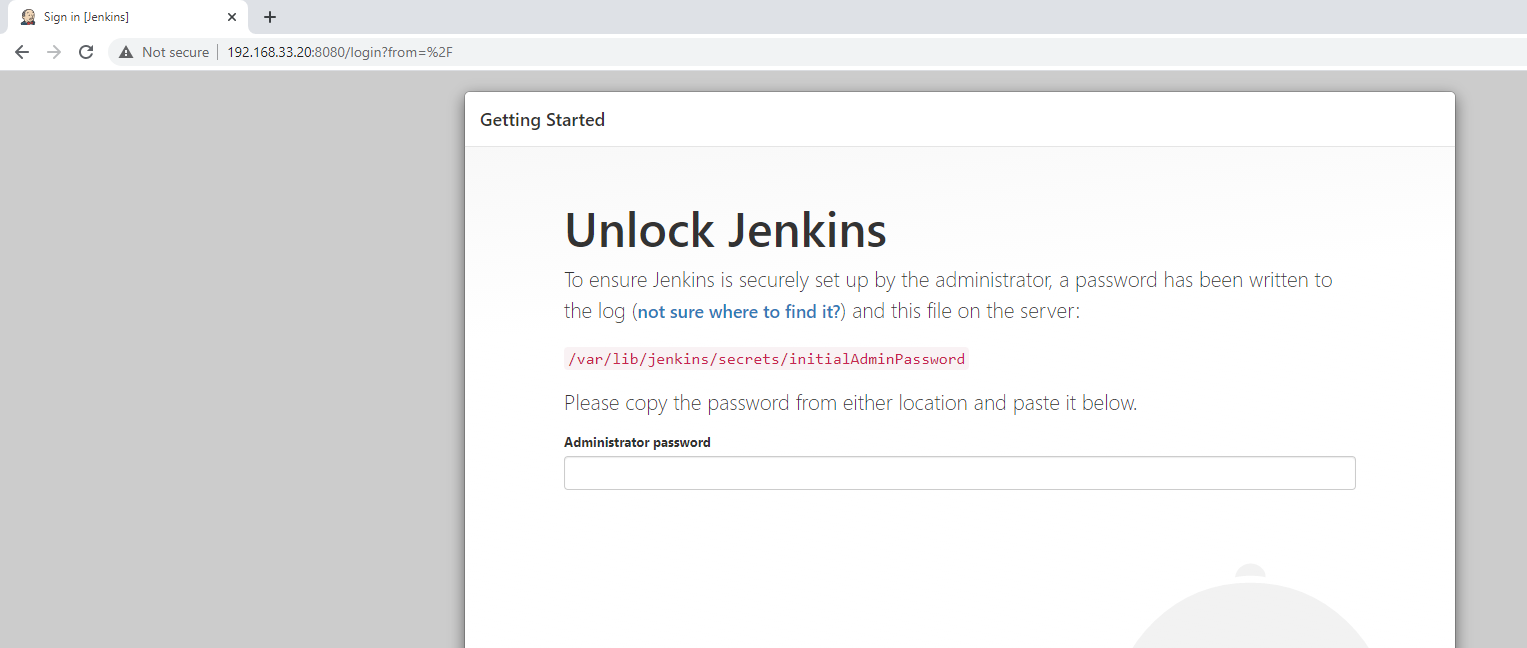
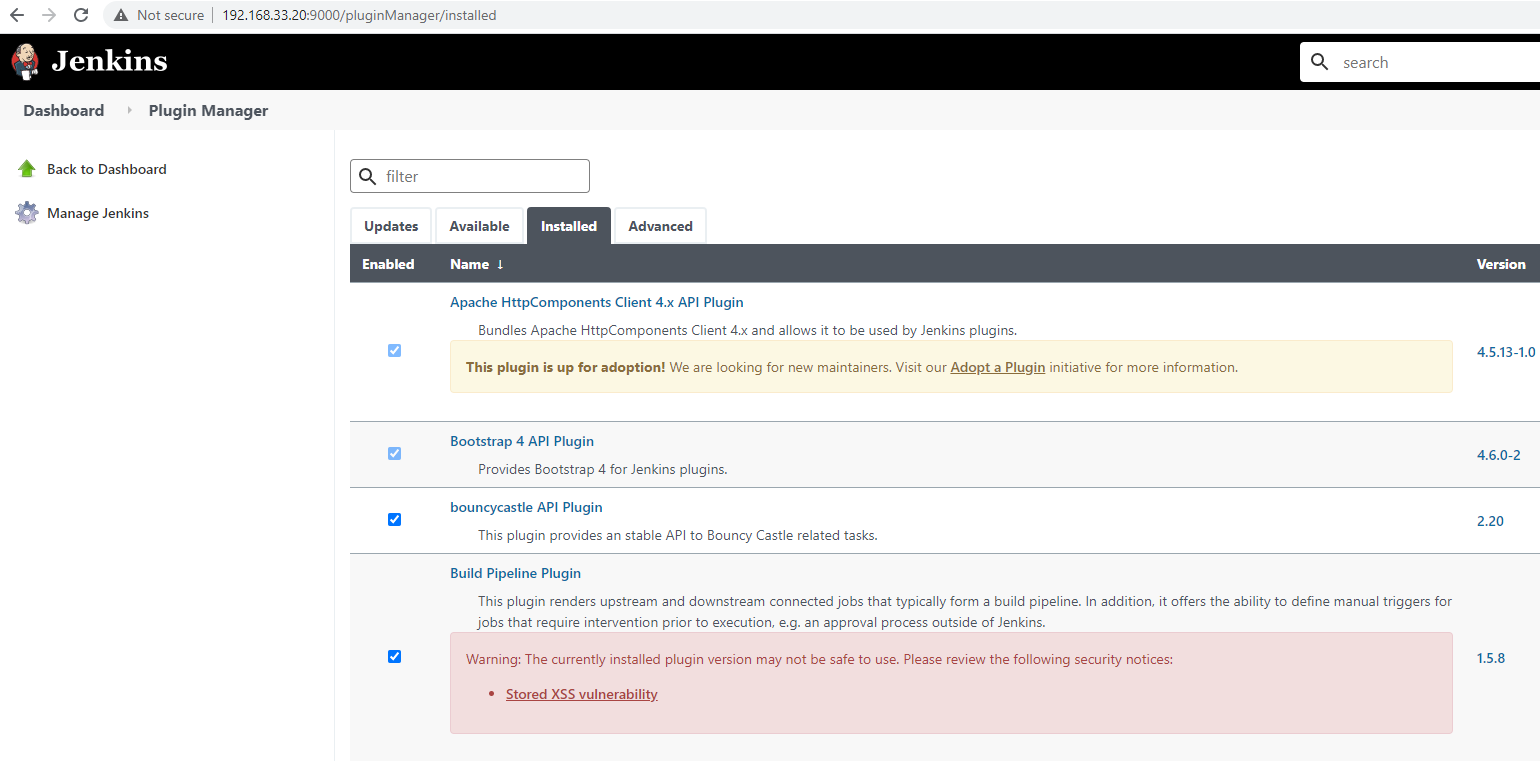
Configure Jenkins and install build pipeline plugin

diff --git a/CHECKPOINT.md b/CHECKPOINT.md
@@ -2,18 +2,22 @@
 
 ## Automatically configure a Jenkins server (anmcgill)
 
-For this task, we've defined a role in ansible for installing Jenkins and its dependencies. We haven't yet configured Jenkins, so it isn't running on the correct port, and the admin user is not being initiallized, but we were able to verify that the Jenkins instance could be accessed from a browser after running "pipeline setup":
-![Jenkins Installed](screenshots/jenkinsInstalled.PNG)
-
-The code for this is currently on a separate branch: https://github.ncsu.edu/cscdevops-spring2021/DEVOPS-28/tree/configureJenkinsServer
+For this part of the assignment, we've defined a role in ansible for installing and configuring Jenkins. When running "pipeline setup," we're using ansible to install Jenkins and its dependencies, configure Jenkins to run on port 9000, disable the setup wizard for Jenkins, and install build-pipeline-plugin to support creating pipeline-style jobs.
 
 The implementation in ansible attempts to follow the Jenkins documentation for installing from the command line on Debian/Ubuntu Linux distributions: https://www.jenkins.io/doc/book/installing/linux/#debianubuntu
 
-There are two remaining issues to be implemented as part of this task:
+We were able to verify that, after running "pipeline setup," we could access Jenkins from the UI as the admin user and see that the build pipeline plugin was installed:
 
-1. Configure Jenkins and copy in the .vault-pass file: https://github.ncsu.edu/cscdevops-spring2021/DEVOPS-28/issues/4
-2. Install jenkins-plugins: https://github.ncsu.edu/cscdevops-spring2021/DEVOPS-28/issues/5
+![Jenkins Installed](screenshots/jenkinsInstalled.PNG)
 
-## Automatically configure a build environment for checkbox.io
+We still need to update the setup command to handle the .vault-pass file.
+
+In addition, we should probably revisit the implementation in ansible. What we have seems to work, but we may find there are issues with it as we make more progress on the other two sections of the milestone and begin interacting with the Jenkins server. We'll also want to make sure that we aren't violating any best practices in ansible or incorrectly integrating with the provided cm-template project.
+
+One area for improvement is that the jenkins role in ansible will restart Jenkins twice every time it's run, even if nothing has changed. It's probably worthwhile to look into whether this can be avoided, maybe through the use of [handlers](https://docs.ansible.com/ansible/latest/user_guide/playbooks_handlers.html) in ansible.
+
+## Automatically configure a build environment for checkbox.io (thwinter)
 
 ## Create a build job for Jenkins (sawalter)
+
+Once these three parts of the setup command are completed, we'll also need to implement the build command that will invoke our Jenkins job and print its log.

diff --git a/README.md b/README.md
@@ -1,1 +1,6 @@
 # CSC 519 Project
+
+## Milestone 1
+Issue board for first milestone: https://github.ncsu.edu/cscdevops-spring2021/DEVOPS-28/projects/1
+
+[March 9th checkpoint report](CHECKPOINT.md)
